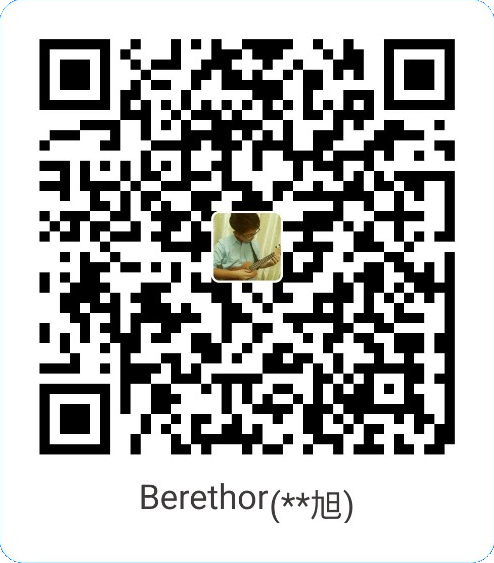
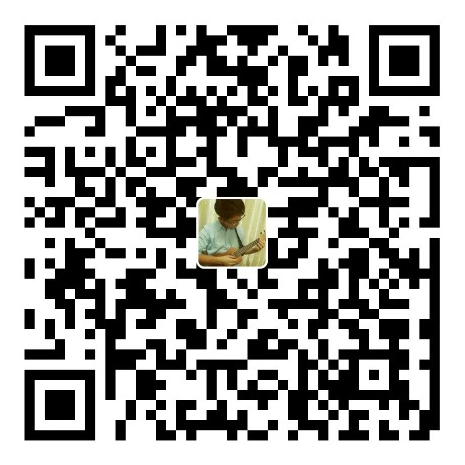
docs: add high-resolution UI screenshots and gallery to README

diff --git a/phonetransfer/ui/dialogs/sponsor_dialog.py b/phonetransfer/ui/dialogs/sponsor_dialog.py
@@ -98,7 +98,7 @@ class SponsorDialog(QDialog):
 
         self.qr_label = QLabel()
         self.qr_label.setAlignment(Qt.AlignmentFlag.AlignCenter)
-        self.qr_label.setFixedSize(220, 240)
+        self.qr_label.setFixedSize(220, 220)
         card_l.addWidget(self.qr_label)
 
         self.author_label = QLabel("扫码支持作者：Berethor (**旭)")
@@ -143,7 +143,7 @@ class SponsorDialog(QDialog):
         if WECHAT_QR_PATH.exists():
             pm = QPixmap(str(WECHAT_QR_PATH))
             scaled = pm.scaled(
-                220, 240, Qt.AspectRatioMode.KeepAspectRatio, Qt.TransformationMode.SmoothTransformation
+                220, 220, Qt.AspectRatioMode.KeepAspectRatio, Qt.TransformationMode.SmoothTransformation
             )
             self.qr_label.setPixmap(scaled)
         else:
@@ -154,7 +154,7 @@ class SponsorDialog(QDialog):
         if ALIPAY_QR_PATH.exists():
             pm = QPixmap(str(ALIPAY_QR_PATH))
             scaled = pm.scaled(
-                220, 240, Qt.AspectRatioMode.KeepAspectRatio, Qt.TransformationMode.SmoothTransformation
+                220, 220, Qt.AspectRatioMode.KeepAspectRatio, Qt.TransformationMode.SmoothTransformation
             )
             self.qr_label.setPixmap(scaled)
         else:

diff --git a/README.md b/README.md
@@ -13,6 +13,10 @@
   <img src="https://img.shields.io/badge/License-MIT-orange?style=flat-square" alt="License" />
 </p>
 
+<p align="center">
+  <img src="docs/screenshots/01_main_mac_to_phone.png" alt="PhoneTransfer 主界面 - 电脑向手机极速传输" width="820" />
+</p>
+
 ---
 
 ## 💡 为什么需要 PhoneTransfer？
@@ -25,6 +29,21 @@
 - **原生 macOS 质感**：采用符合 macOS 人机交互习惯的界面与快捷键设计。
 
 > *注：虽然手机端无需安装常驻 APK，但在执行剪贴板速传时，本工具会通过 ADB 临时向手机 `/data/local/tmp/` 目录推送开源轻量辅助组件 `pt_clip.jar` 并通过系统 Shell 权限反射执行，执行完毕即退出。*
+
+---
+
+## 📸 界面预览与功能展示
+
+| 电脑向手机传输 (Mac → Phone) | 手机文件管理与即时预览 (Phone → Mac) |
+| :---: | :---: |
+| <img src="docs/screenshots/01_main_mac_to_phone.png" width="420" alt="电脑向手机传输" /> | <img src="docs/screenshots/02_main_phone_to_mac.png" width="420" alt="手机文件浏览与管理" /> |
+| **跨端文本与剪贴板速传 (`⌘⇧V`)** | **无线连接与管理 (Wi-Fi 调试)** |
+| <img src="docs/screenshots/03_quick_text_clipboard.png" width="420" alt="跨端文本速传" /> | <img src="docs/screenshots/04_wifi_connection.png" width="420" alt="添加无线设备" /> |
+
+<p align="center">
+  <img src="docs/screenshots/05_sponsor_dialog.png" width="380" alt="请作者喝杯咖啡" /><br/>
+  <sub>☕ 支持作者持续打磨开源作品</sub>
+</p>
 
 ---
 
